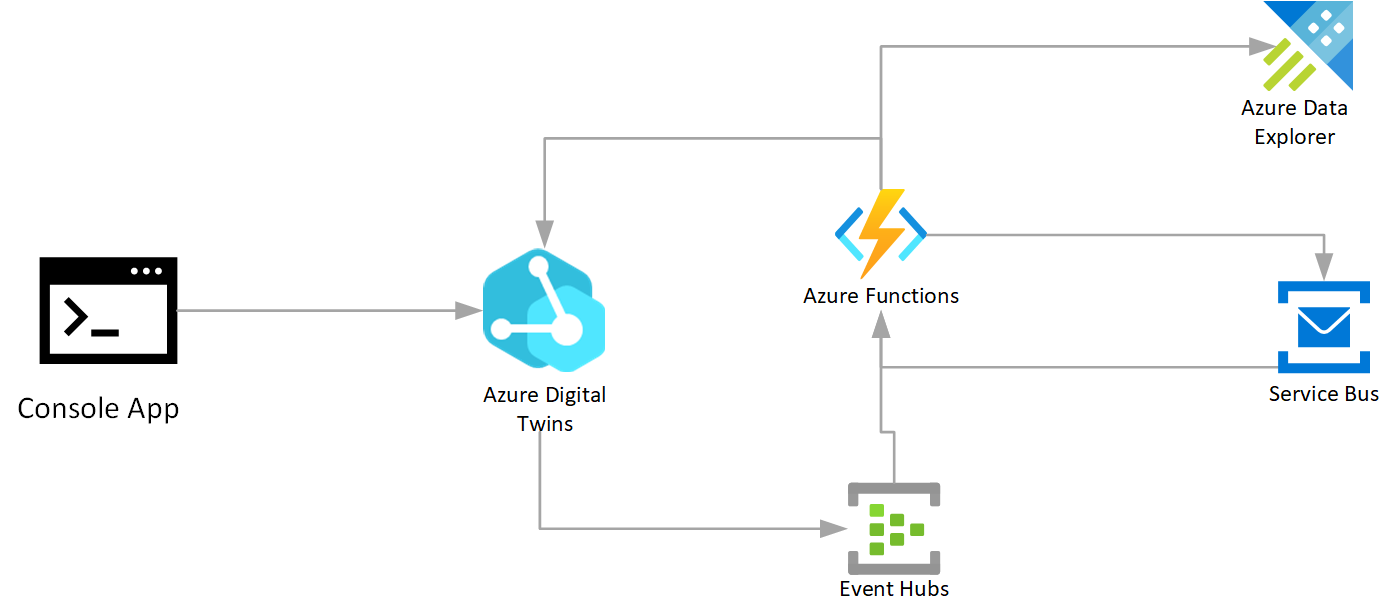
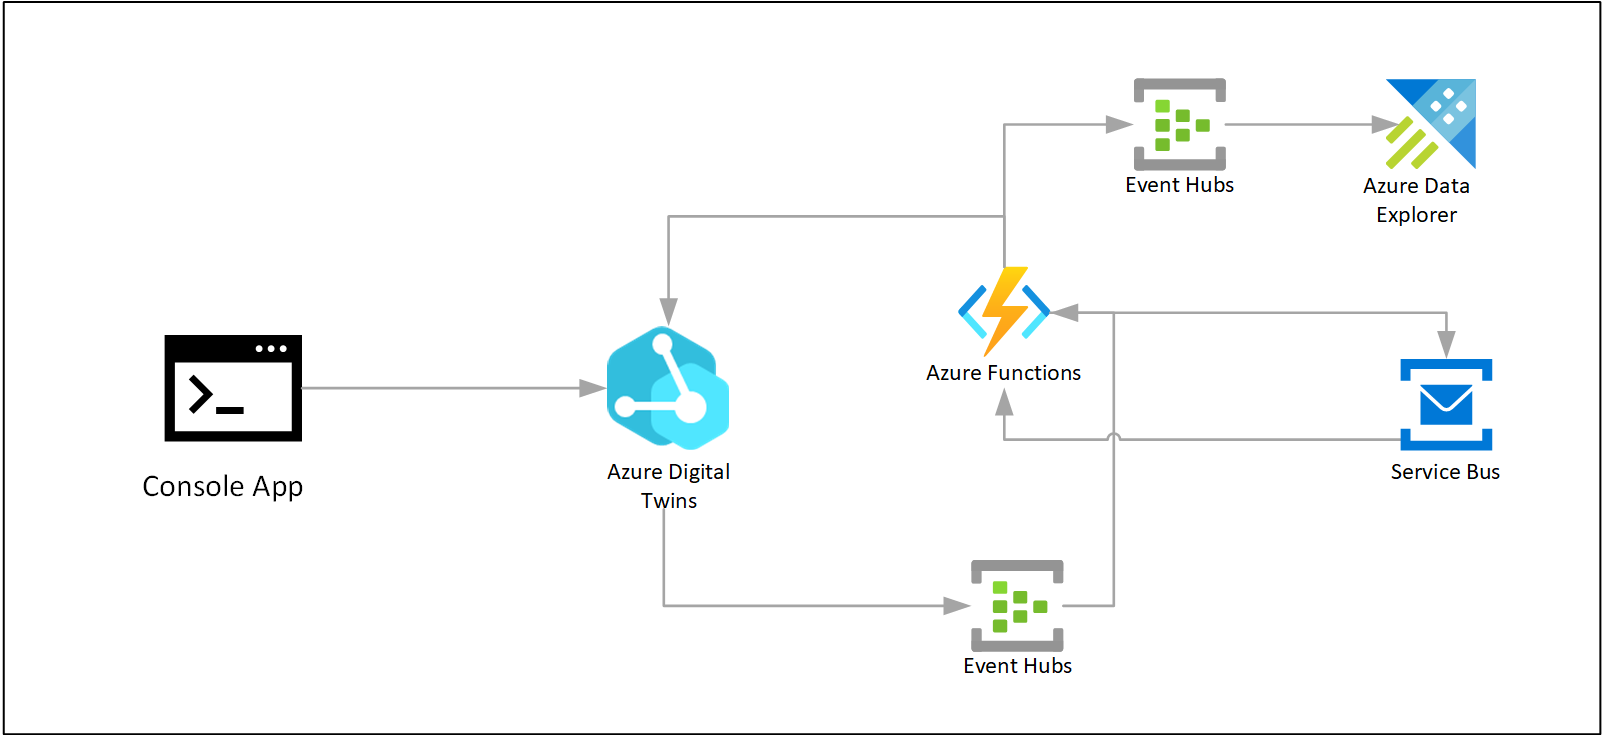
adx historization and query doc

diff --git a/docs/adtqueryhist.md b/docs/adtqueryhist.md
@@ -1,0 +1,55 @@
+# Historization and running queries with Azure Data Explorer and Azure Digital Twins plugin
+
+## How ADT twin property updates are being historized in Azure Data Explorer
+
+As we want to capture every single Property update within the ADT and store it in the time series databased in ADX, we setup a 'Route' in ADT called `twin-history` to listen to all events filtered on `type = 'Microsoft.DigitalTwins.Twin.Update'`, and push them into a new Event Hub.  
+From there an Azure Function `TwinUpdatedEgress` does some transformation and generates a new Event Hub message. 
+Azure Data Explorer is setup to have Event Hub streaming ingestion which ingests the raw data into the table `rawAdtHistory`. From there all processing is internal to ADX. Notably we parse the raw data into a new streamlined table `AdtHistory`. This is the actual table we leverage to query across ADT and ADX.
+
+> Note: you could do a more simplified setup above by eleminating both the Azure Function and the second Event Hub, but there is a reason we kept it. We want to add some logic of how the updates are generated and we want to control the 'TimeStamp' property: when the update comes from a Device twin, we don't want to take the DT's event generated time, but rather the property `SensorTimestamp` and use that as the TimeStamp.
+
+![Architecture - data historization ADT > EH > Function > EH > ADX](images/historizationflow.png)
+
+## Querying ADT and ADX
+
+With the Azure Digital Twins query plugin for Azure Data Explorer, you can query the knowledge graph from within ADX and combine the result with time series data for exploration and dashboarding.
+
+> More information about the plugin: [Azure Digital Twins query plugin for Azure Data Explorer](https://docs.microsoft.com/en-us/azure/digital-twins/concepts-data-explorer-plugin)
+
+Below you can find a few examples of queries that allow for finding insights.
+Make sure to update the `[ADT_URI]` to match your instance of ADT.
+
+1. Query all twin IDs and join them to the data in ADX:
+
+    ```
+    let ADTendpoint = "[ADT_URI]";
+	let ADTquery = "SELECT $dtId as tid from DIGITALTWINS"; 
+	evaluate azure_digital_twins_query_request(ADTendpoint, ADTquery) 
+	| extend Id = tostring(tid)
+	| join kind=inner (AdtHistory) on Id 
+    | order by TimeStamp desc
+    ```
+2. Query all Assets (twins based on a model of type '') that are at two hops away from Operator1
+
+    ```
+    let ADTendpoint = "[ADT_URI]";
+	let ADTquery = "SELECT asset.$dtId as tid from DIGITALTWINS MATCH (operator)-[*2]-(asset) WHERE IS_OF_MODEL(asset, 'dtmi:sample:aqueduct:asset:Base;1') AND operator.$dtId = 'Operator1'"; 
+	evaluate azure_digital_twins_query_request(ADTendpoint, ADTquery) 
+	| extend Id = tostring(tid)
+	| join kind=inner (AdtHistory) on Id 
+    ```
+3. Now extend this query to start playing with the data in ADX. In this example we select only a specific property `FlowVolume`, do a value conversaion for the field `Value` which is of type dynamic, and then use a grouping and chart
+
+    ```
+    let ADTendpoint = "[ADT_URI]";
+	let ADTquery = "SELECT asset.$dtId as tid from DIGITALTWINS MATCH (operator)-[*2]-(asset) WHERE IS_OF_MODEL(asset, 'dtmi:sample:aqueduct:asset:Base;1') AND operator.$dtId = 'Operator1'"; 
+	evaluate azure_digital_twins_query_request(ADTendpoint, ADTquery) 
+	| extend Id = tostring(tid)
+	| join kind=inner (AdtHistory) on Id 
+    ```
+
+For more information on ADT queries: [Azure Digital Twins query language](https://docs.microsoft.com/en-us/azure/digital-twins/concepts-query-language).
+
+
+
+

diff --git a/README.md b/README.md
@@ -8,7 +8,7 @@ If you are interested in quickly experimenting and deploying the sample setup, c
 - [Project Aqueduct background and overview](docs/README.md)
 - [DTDL Models](docs/dtdl.md)
 - [Azure Digital Twins routing and event propagation flows](docs/routing.md)
-- Historization and running queries with Azure Data Explorer and Azure Digital Twins plugin
+- [Historization and running queries with Azure Data Explorer and Azure Digital Twins plugin](docs/adtqueryhist.md)
 - Deployment scripts
 
 
@@ -26,7 +26,7 @@ If you are interested in quickly experimenting and deploying the sample setup, c
 ## Open points
 
 - Finalize documentation
-- Add examples of ADT queries
+- Add more examples of ADT queries
 - Add Azure Data Explorer dashboards
 
 ## Deployment
